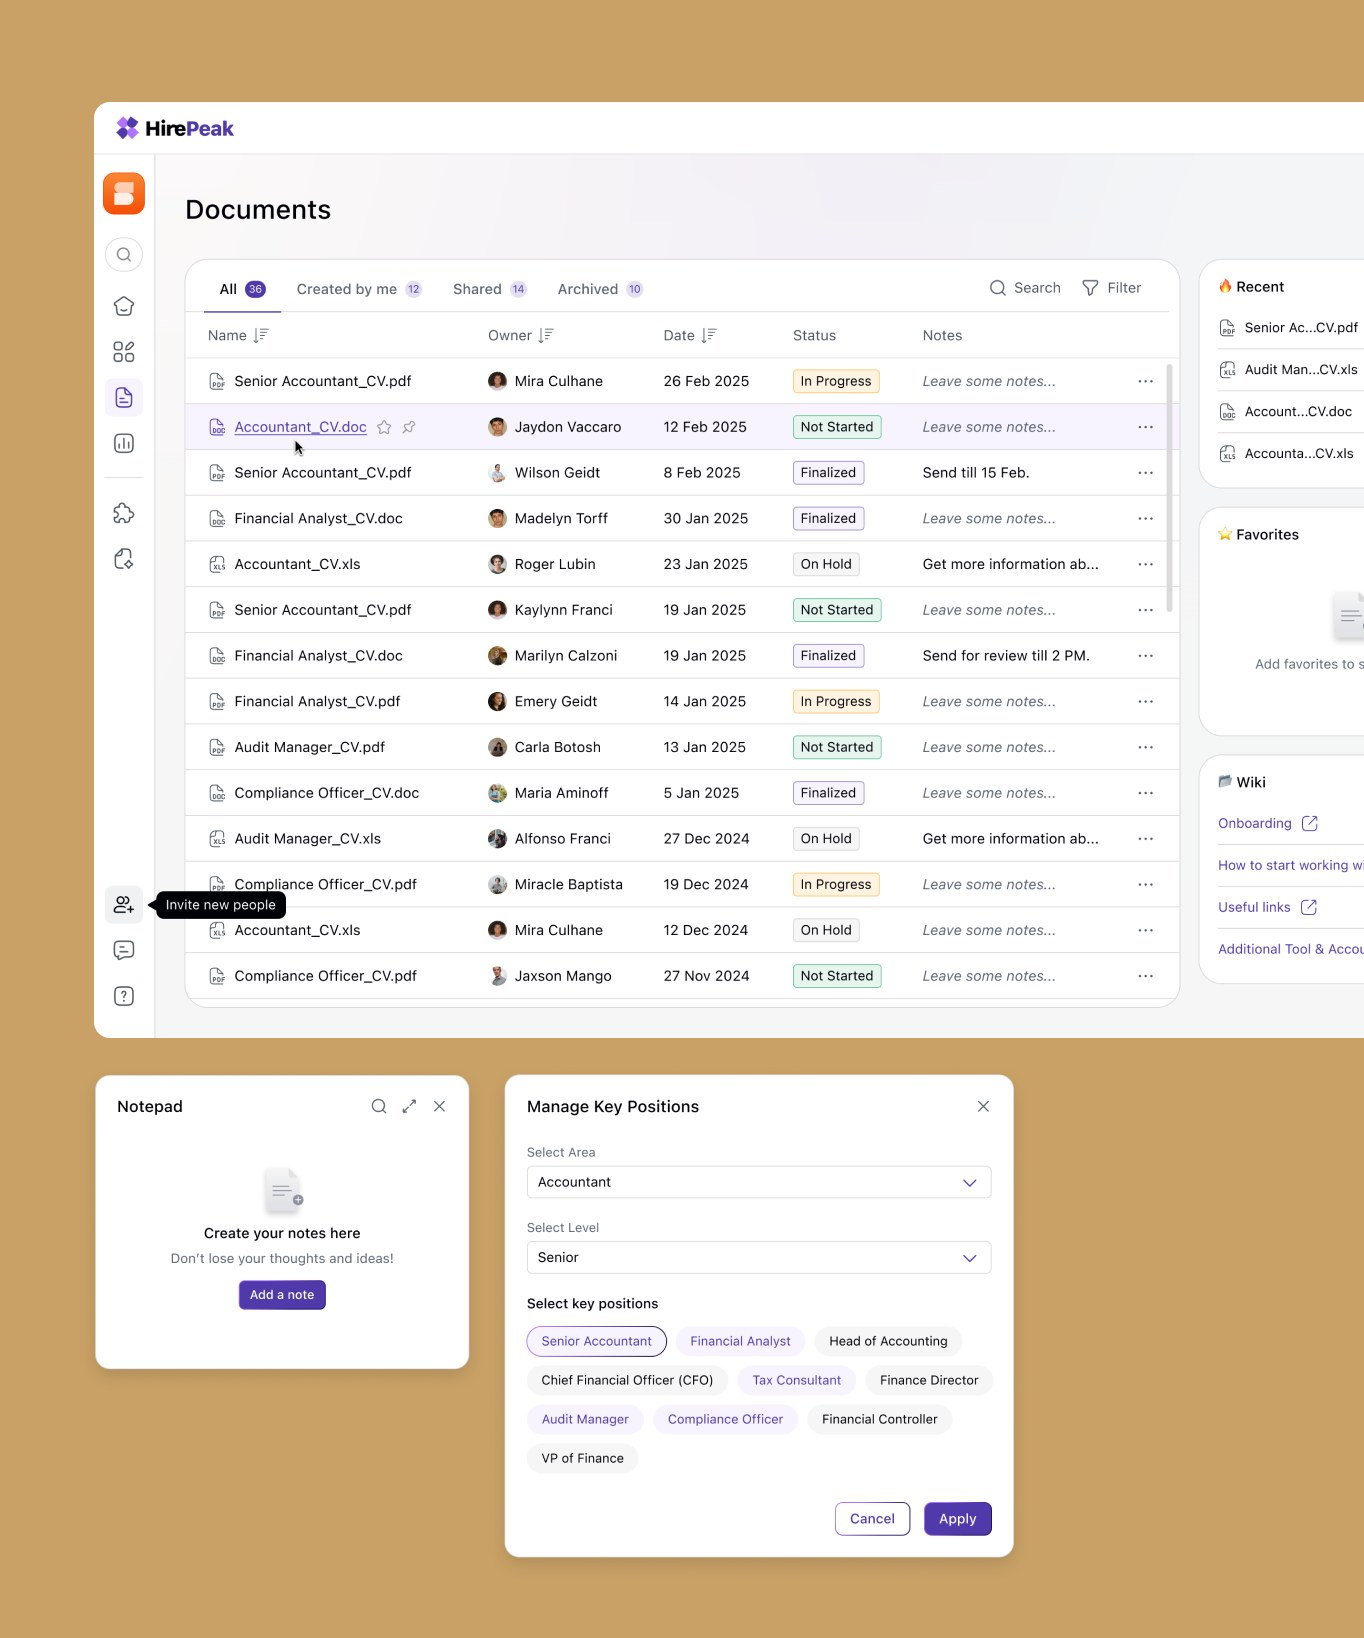
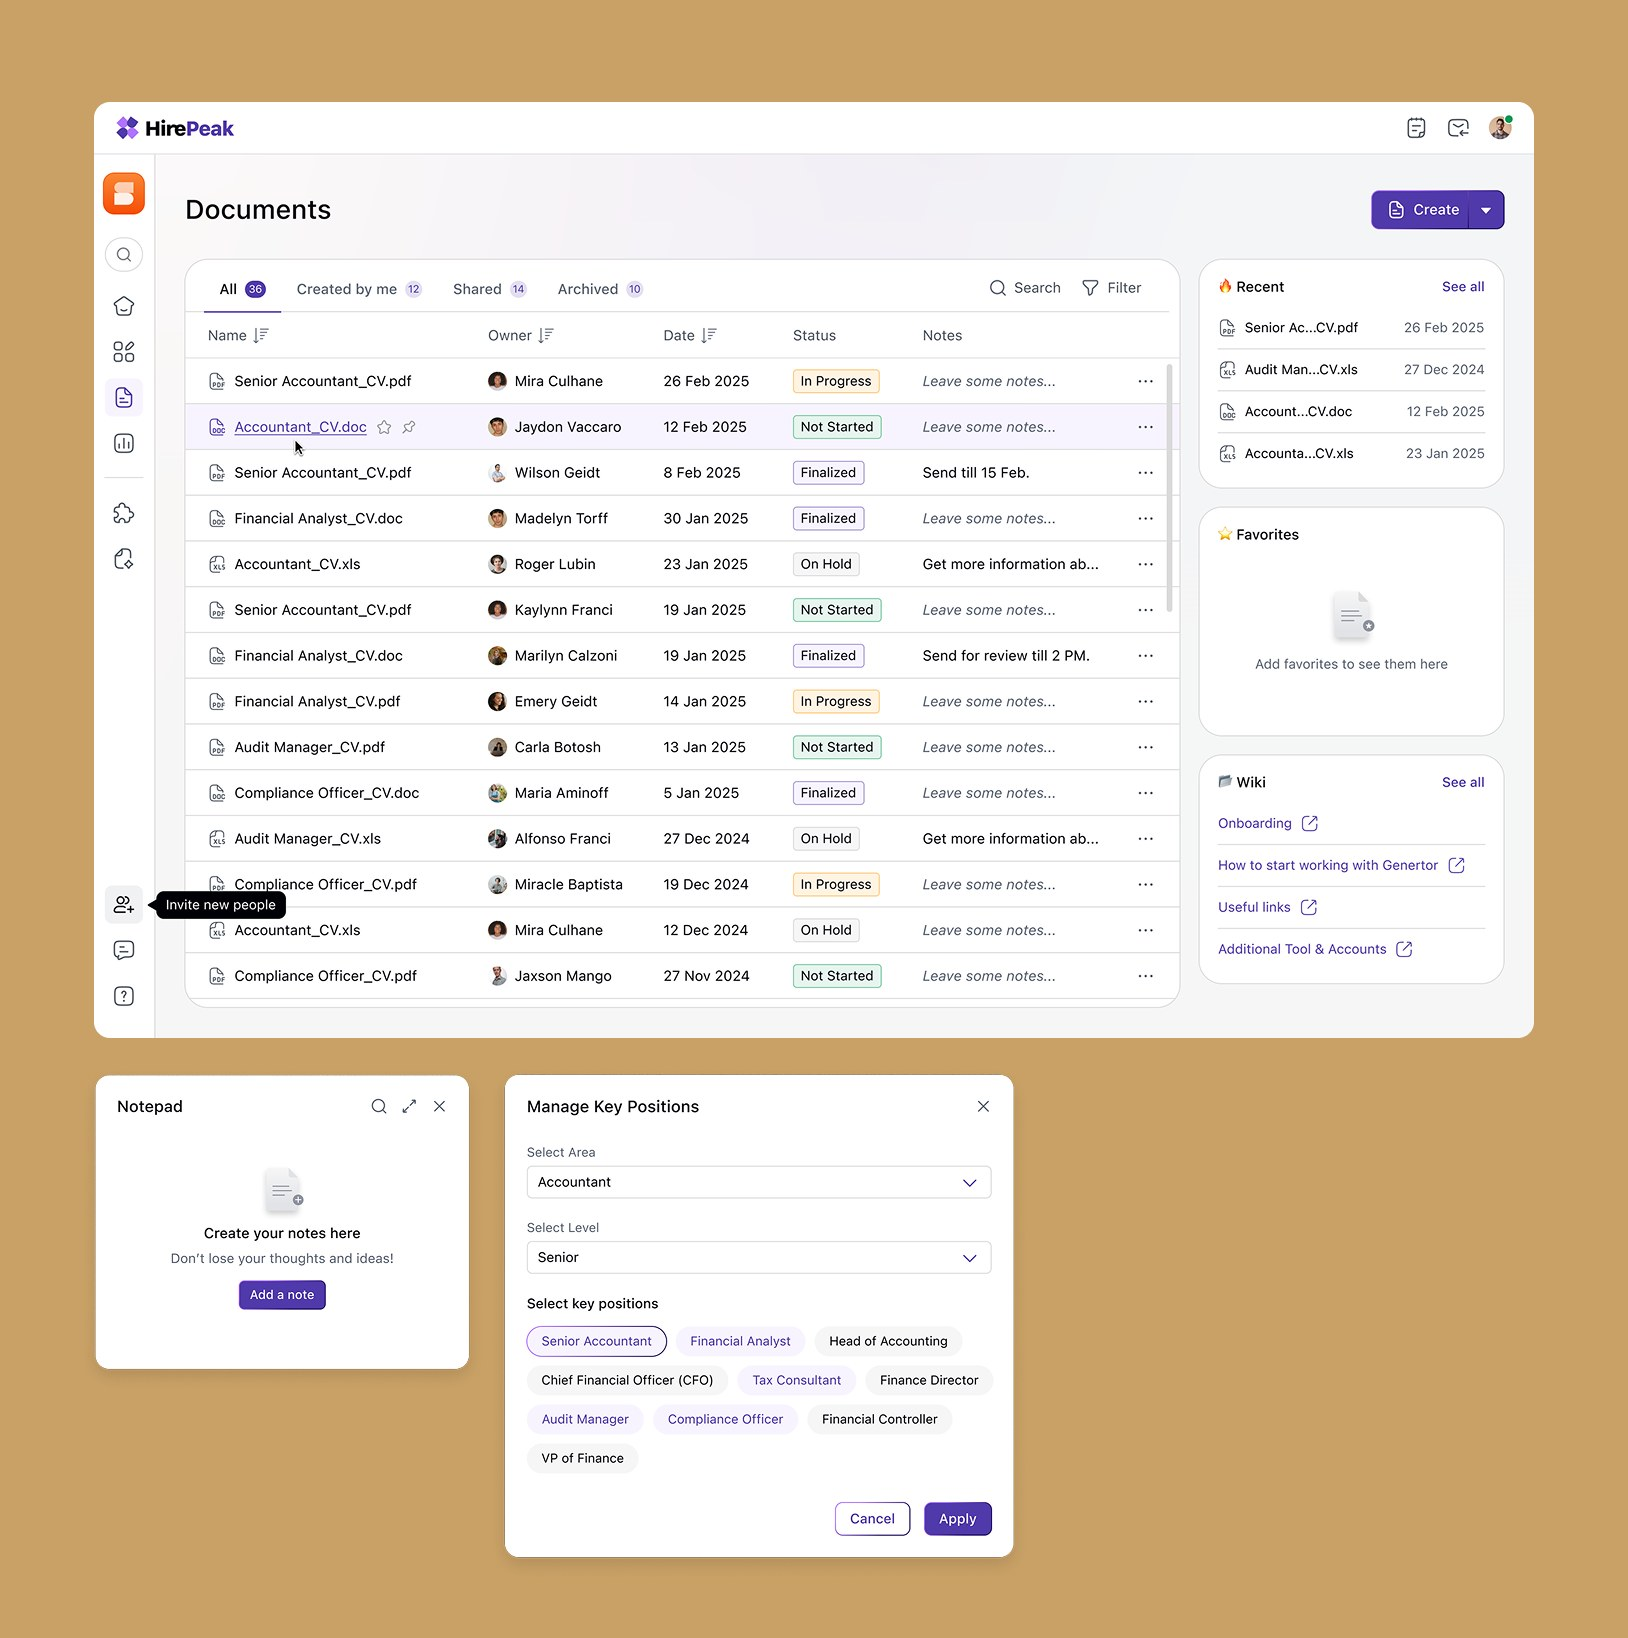
Standardise the Solution rhythm, and stop cropping the HirePeak hero
Solution had drifted apart across the four cases: at six columns the gaps
ran 80/64/64, 56/64/64, 80/64/90 and 80/64/0, and at two columns
48/80/100 against 80/80/90. Each page was setting its own values at each
breakpoint, and HirePeak's tile had no value at all, so it sat flush
against the copy.

One rhythm now, matching what the other sections already do: 80/64/64
once the grid halves, 48/80/100 stacked. The shared values live in
case.css; the two pages that set a desktop margin on the tile have to
restate it per breakpoint, since a page-scoped rule outranks the shared
one whatever the media query.

The hero plate is replaced with the export that is not clipped. The first
one came out of Figma cropped, because the design bleeds that screen off
the tile's right edge — on a wide window that read as a screenshot with
its side cut off. Checked from 2560x1440 down to 450x800: nothing cropped
at any size, and the tile still stays inside the section that pins it.

diff --git a/src/styles/case.css b/src/styles/case.css
@@ -367,6 +367,12 @@
     padding-bottom: 100px;
   }
 
+  /* Solution runs the same rhythm as the other sections: the intro under the
+     heading, the labelled block under the intro, the tile under that. */
+  .case-solution-tile {
+    margin-top: 64px;
+  }
+
   .case-goals {
     gap: 32px 21px;
   }
@@ -447,7 +453,8 @@
 
   /* ---- Section bodies ---- */
 
-  .case-intro {
+  .case-intro,
+  .case-solution-intro {
     margin-top: 48px;
   }
 
